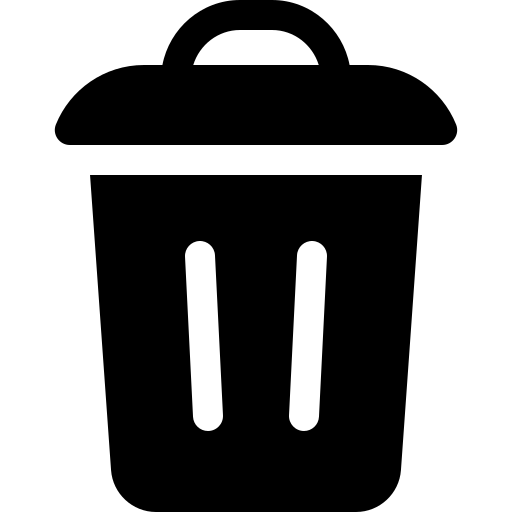
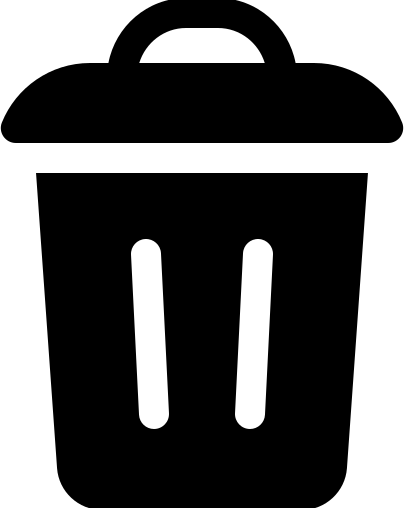
added fontAwesome to reactApp

diff --git a/frontend/src/components/TasksComponents.jsx b/frontend/src/components/TasksComponents.jsx
@@ -2,16 +2,18 @@ import React, { useState, useContext } from "react";
 import "./css/TasksComponents.css";
 import optionsIcon from "../images/optionsIcon.png";
 import sortIcon from "../images/sortIcon.png";
-import deleteIcon from "../images/garbageIcon.png";
 import { CollapsibleDivider } from "./ClickableComponents";
 import { TasksContext } from "../contexts/TasksContext";
 import { useDrag, useDrop } from "react-dnd";
 import { deleteTask, updateTask } from "../utils/TaskAPIRequests";
 import { useSwitch } from "../hooks/useSwitch";
+import { useEffect } from "react";
+import { FontAwesomeIcon } from "@fortawesome/react-fontawesome";
+import { faTrash } from "@fortawesome/free-solid-svg-icons"
 
 export const Task = ({ task }) => {
     const { dispatch } = useContext(TasksContext);
-    const [menuDisplay, toggleMenuDisplay] = useSwitch("none", "inline-block");
+    const [menuDisplay, toggleMenuDisplay] = useSwitch("none", "grid");
     const [{ isDragging }, dragRef] = useDrag({ // eslint-disable-line
         type: "task",
         item: task,
@@ -20,31 +22,33 @@ export const Task = ({ task }) => {
         }
     })
 
+    useEffect(() => {
+        document.getElementById(task._id + "menu").style.display = menuDisplay;
+    }, [menuDisplay])
+
     return (
-        <div className="taskContainer" > {!isDragging ?
-            <div className="task" ref={dragRef}>
-                <h3><b>{task.title}</b></h3>
-                <p className="duration">{task?.duration}</p>
-                <p className={"difficulty " + task.difficulty}>{task.difficulty}</p>
-                <p className="subject">{task.subject}</p>
-                <button className="options" onClick={toggleMenuDisplay}>
-                    <img src={optionsIcon} alt="..." className="icon" />
-                </button>
-            </div > : null
+        <div className="taskContainer" > {
+            !isDragging ?
+                <div className="task" ref={dragRef}>
+
+                    <h3><b>{task.title}</b></h3>
+                    <p className="duration">{task?.duration}</p>
+                    <p className={"difficulty " + task.difficulty}>{task.difficulty}</p>
+                    <p className="subject">{task.subject}</p>
+                    <button className="options" onClick={toggleMenuDisplay}>
+                        <img src={optionsIcon} alt="..." className="icon" />
+                    </button>
+
+                </div> : null
         }
-            <div
-                id={task._id + "menu"}
-                className="taskMenu"
-                style={
-                    { "display": menuDisplay }}
-            >
-                <button onClick={() => {
+            <div id={task._id + "menu"} className="taskMenu" >
+                <button class="deleteTask" onClick={() => {
                     deleteTask(dispatch, task);
                 }}>
-                    <img src={deleteIcon} alt="delete" className="icon" />
+                    <FontAwesomeIcon class="trashIcon" icon={faTrash} />
                 </button>
             </div>
-        </div >
+        </div>
     );
 }
 
@@ -108,6 +112,11 @@ export const TaskList = ({ id, title, sortParam }) => {
         return diffLevels;
     }
 
+    useEffect(() => {
+        document.getElementById(`sortMenu${id}`).style.display = menuDisplay;
+        document.getElementById(`curtainButton${id}`).style.display = menuDisplay;
+    })
+
     return (
         <div className="taskList" ref={dropRef} >
             <h1>{title}</h1>
@@ -116,11 +125,11 @@ export const TaskList = ({ id, title, sortParam }) => {
             </button>
 
             <button
+                id={`curtainButton${id}`}
                 className="appContainer_curtain"
-                style={{ "display": menuDisplay }}
                 onClick={toggleMenuDisplay}
             ></button>
-            <div className="sortMenu" id={`sortMenu${id}`} style={{ "display": menuDisplay }}>
+            <div id={`sortMenu${id}`} className="sortMenu">
                 <h1>{"Sort - " + title}</h1>
 
                 <button className="default block" onClick={

diff --git a/frontend/src/components/css/TasksComponents.css b/frontend/src/components/css/TasksComponents.css
@@ -92,13 +92,36 @@
 
 /* task - taskMenu */
 
-.taskMenu {
-    width: 100%;
-    height: 200px;
-    background-color: rgba(149, 141, 141, 0.548);
+div.taskMenu {
+    display: grid;
+    grid-template-columns: repeat(6, 1fr);
+    grid-template-rows: repeat(4, 1fr);
+    width: calc(100% - 32px);
+    height: 150px;
     border-radius: inherit;
     border-top-right-radius: 0;
     border-top-left-radius: 0;
+    border:inset var(--thirnaryColor) 5px;
+    padding: 10px;
+    margin: 1px;
+}
+
+button.deleteTask {
+    grid-column: 6;
+    grid-row: 4;
+    width: 30px;
+    height: 37px;
+    padding: 0;
+    margin: auto;
+    background-color: transparent;
+    border: none;
+}
+button.deleteTask:hover {
+    color: rgb(90, 90, 90);
+    cursor: pointer;
+}
+button.deleteTask:active {
+    color: red;
 }
 
 /* taskList styles */

diff --git a/frontend/src/components/ClickableComponents.jsx b/frontend/src/components/ClickableComponents.jsx
@@ -81,7 +81,7 @@ export const CollapsibleDivider = ({ title, children, isBlack }) => {
                 children ?
                     <div className={`divider ${isBlack ? "black" : null}`}>
                         <button onClick={toggleOpen}>
-                            <h3>{title ? title : "Others"}</h3>
+                            <h3 class="collapsableDividerTitle">{title ? title : "Others"}</h3>
                             {isOpen ? <div className="arrow down" /> : <div className="arrow up" />}
                         </button>
                         <div className="divider-content">

diff --git a/frontend/src/components/css/ClickableComponents.css b/frontend/src/components/css/ClickableComponents.css
@@ -64,7 +64,7 @@ button.addButton:active {
 }
 
 
-/* TaskDivider styles*/
+/* Collapsable Divider styles*/
 
 .divider > button {
     background-color: transparent;
@@ -75,6 +75,7 @@ button.addButton:active {
 
 .divider > button:hover {
     color: white;
+    cursor: pointer;
 }
 
 .divider > * > h3 {
